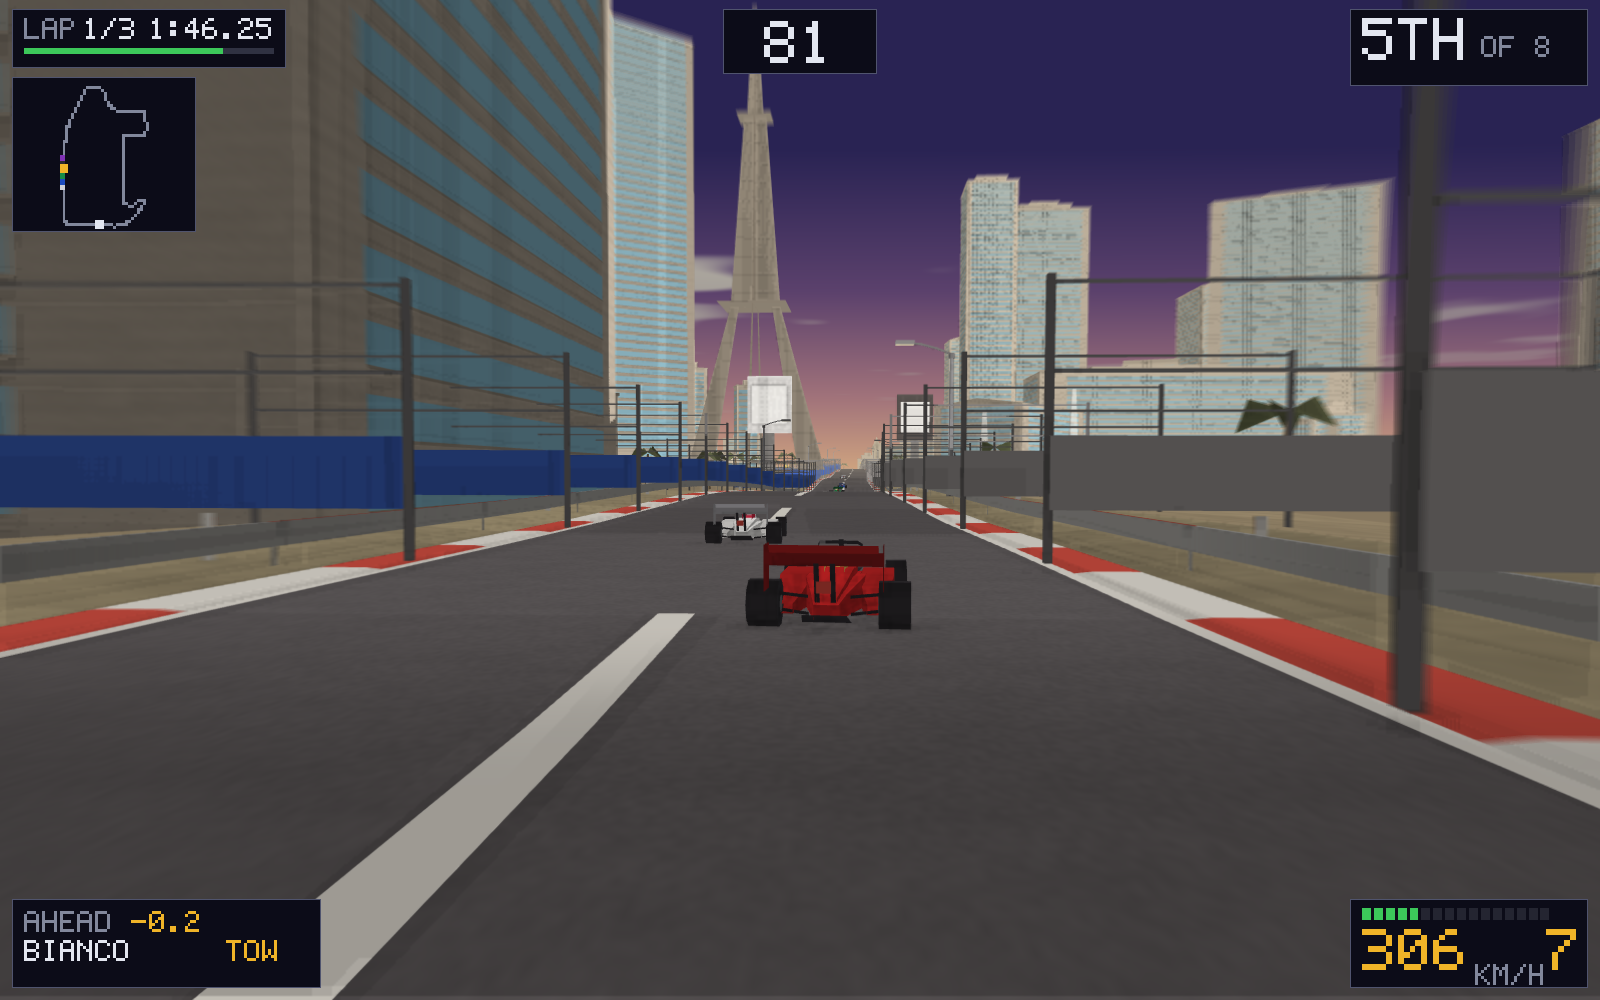
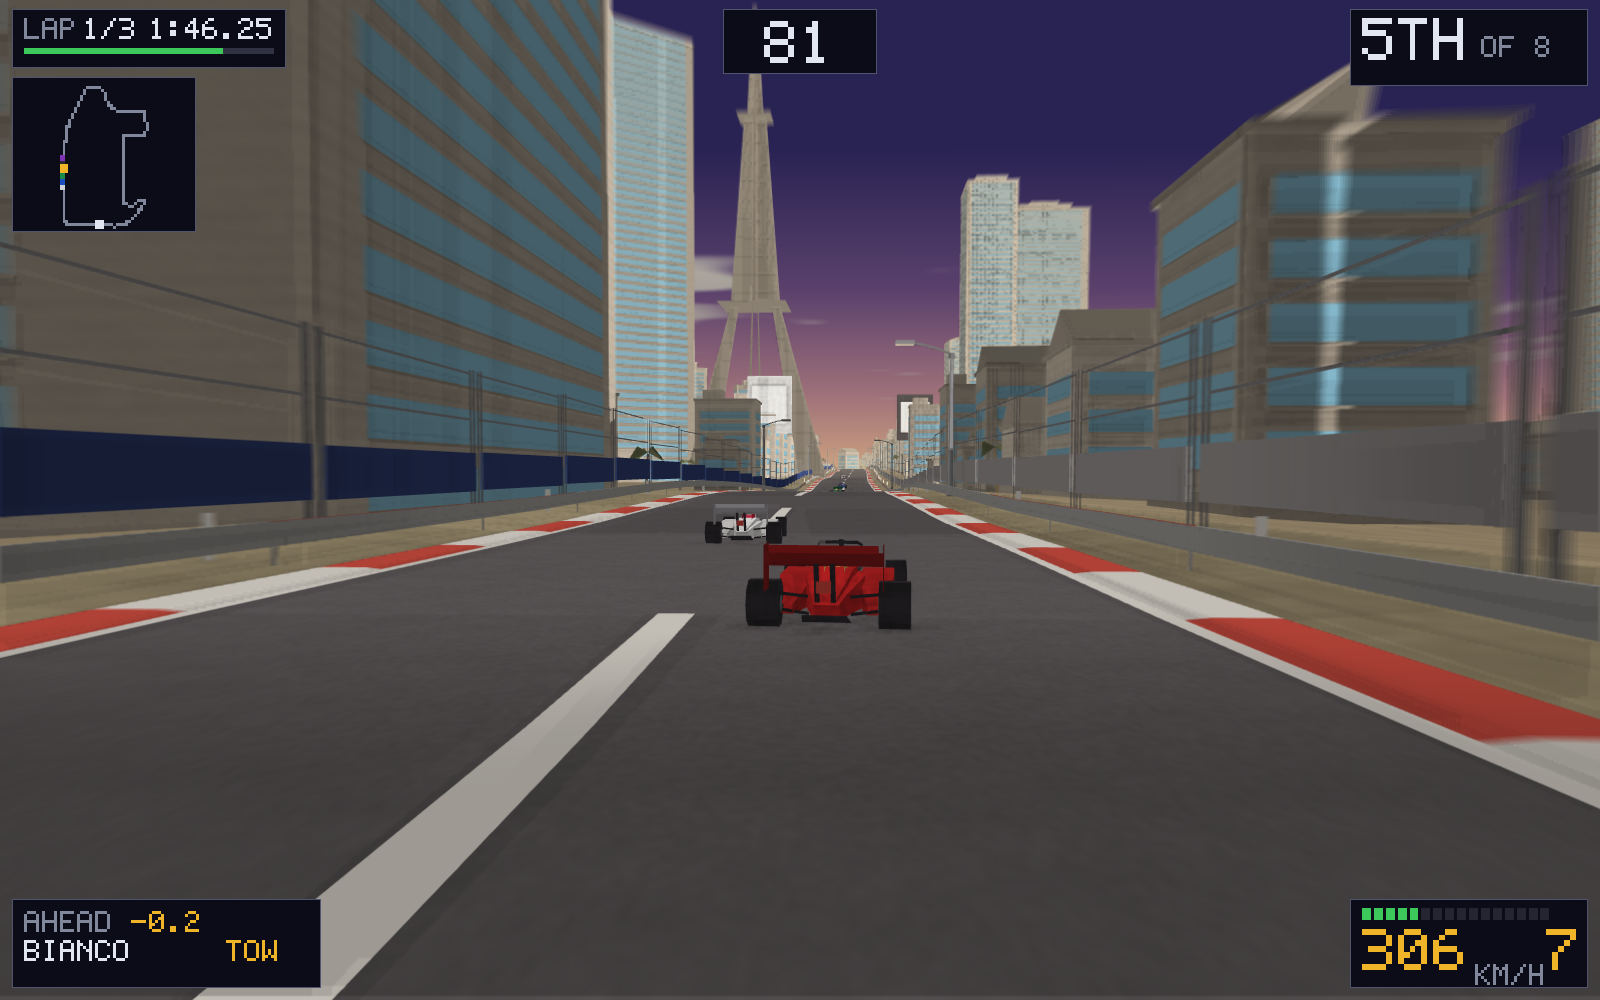
Six thousand runs of hoarding, all of them at right angles to the circuit
Reported from the car and obvious once seen: the advertising boarding stood
across the track like a row of gates.

A model in this game is placed with the track's heading, and at that heading
local x runs across the road and local z runs along it - which is why the
grandstand, built long in x, is handed a quarter turn when it is placed, and why
the crane's boom is described as reaching to the track's left. The hoarding was
built long in x and handed no turn. Built along z it needs none, which is the
better fix of the two: a model that has to be rotated to be used is a model that
will be placed unrotated eventually.

And the gaps behind it are filled. The eight street circuits take their buildings
from OpenStreetMap, which is the reason they are worth importing this way at all -
Monaco with invented buildings is a road between boxes - but a map has gaps: a
car park, a square, a stretch the survey did not cover. At those the new hoarding
stood against the sky with nothing behind it, which is worse than the bare ground
it replaced.

So the lap is walked and, wherever there is no measured building within reach, a
generic one goes behind the boarding. Same `tower` the map uses, so the same
building code and the same three silhouettes, at a size and height from a hash.
Two thousand of them, and it will not build where the ground stops - which is
where another part of the lap is, by the limit worked out for the ground itself -
nor over water.
[…]

Changed region(s): [[0.0, 0.062, 1.0, 0.713], [0.9688, 0.186, 1.0, 0.217]]

diff --git a/src/game/route.js b/src/game/route.js
@@ -1182,6 +1182,83 @@ function cornersOf(nodes) {
  * not on a bridge, where the railing is the barrier; and not where the barrier
  * itself has been dropped because the lap is running over its own tarmac.
  */
+/**
+ * A building where the map has none.
+ *
+ * The eight street circuits get their buildings from OpenStreetMap, which is the
+ * reason they are worth importing this way at all: Monaco with invented
+ * buildings is a road between boxes. But a map has gaps - a car park, a square,
+ * a stretch the survey did not cover - and at those the new hoarding stands
+ * against the sky with nothing behind it, which is worse than the bare ground it
+ * replaced.
+ *
+ * So this walks the lap and, wherever there is no measured building within
+ * reach, puts a generic one behind the boarding. It is the same `tower` the map
+ * uses, at a size and height from a hash, so it is the same building code and
+ * the same three silhouettes.
+ *
+ * Three things it will not do. It will not build where the ground stops, which
+ * is where another part of the lap is - the limit worked out by
+ * narrowWhereItFoldsBack. It will not build over water. And it does not need to
+ * check the road, because `add` does that for everything.
+ */
+function infill(nodes, out, add) {
+  const count = nodes.length;
+
+  // Where the measured buildings already are, in the world.
+  const built = [];
+  for (let j = 0; j < count; j++) {
+    const list = out[j];
+    if (!list) continue;
+    for (const p of list) {
+      if (p.kind !== 'tower' && p.kind !== 'block') continue;
+      const off = p.side * p.off;
+      built.push({
+        x: nodes[j].x + nodes[j].nx * off,
+        z: nodes[j].z + nodes[j].nz * off,
+        r: spreadOf(p),
+      });
+    }
+  }
+
+  // Every thirty metres. Closer than that and a gap the width of one building
+  // gets two of them; further and a square comes out as a square.
+  for (let i = 0; i < count; i += 5) {
+    const a = nodes[i];
+    if (a.open || a.bridge !== undefined || a.deck || (a.tunnel || 0) > 0.05) continue;
+    for (const side of [-1, 1]) {
+      const g = side < 0 ? a.g.l : a.g.r;
+      if (a.g.wet > 0.4 && g[1] < a.y - 2) continue;
+      // A size of its own, from the same hash the models use.
+      const seed = Math.abs(Math.sin(i * 12.9898 + side * 78.233) * 43758.5453) % 1;
+      const w = 9 + seed * 12;
+      const d = 9 + ((seed * 7) % 1) * 8;
+      const h = 7 + ((seed * 13) % 1) * 21;
+      const off = a.wall + 12 + w * 0.5;
+      // Not past where the ground stops: that is another part of the circuit.
+      const reach = (side < 0 ? a.groundL : a.groundR) ?? 1e9;
+      if (off + Math.max(w, d) * 0.5 > reach) continue;
+      // And not where the map already has one.
+      const x = a.x + a.nx * side * off;
+      const z = a.z + a.nz * side * off;
+      let taken = false;
+      for (const b of built) {
+        const dx = x - b.x;
+        const dz = z - b.z;
+        if (dx * dx + dz * dz < (b.r + Math.max(w, d) * 0.5 + 6) ** 2) {
+          taken = true;
+          break;
+        }
+      }
+      if (taken) continue;
+      add(i, {
+        kind: 'tower', side, off, s: 1, r: 0, align: true, fixed: true, w, d, h,
+      });
+      built.push({ x, z, r: Math.max(w, d) * 0.5 });
+    }
+  }
+}
+
 function streetFurniture(nodes, add) {
   const count = nodes.length;
   for (let i = 0; i < count; i += 2) {
@@ -2058,7 +2135,12 @@ function dress(nodes, real, rnd) {
   cornerBoards(nodes, add);
   cranes(nodes, add);
   crowds(nodes, add);
-  if (real.osm) streetFurniture(nodes, add);
+  if (real.osm) {
+    // The infill first, so the hoarding can be dropped where a building of its
+    // own turned out to fit and the boarding would be inside it.
+    infill(nodes, out, add);
+    streetFurniture(nodes, add);
+  }
 
   // The gantry is the checkpoint, on the node the clock actually reads.
   for (const at of checkpointsFor(count)) {

diff --git a/src/render/models.js b/src/render/models.js
@@ -1313,25 +1313,35 @@ export function drawProp(rt, prop, x, y, z, tint, theme, facing = 0, time = 0, n
       const board = TEAM_COLOURS[Math.floor(variant(prop) * TEAM_COLOURS.length)
         % TEAM_COLOURS.length];
       const post = tint(shade(C.metal, 0.7));
+      /**
+       * Built long along z, which is along the track.
+       *
+       * A model in this game is placed with the track's heading, and at that
+       * heading local x runs across the road and local z runs along it - which
+       * is why the grandstand, built long in x, is handed a quarter turn when it
+       * is placed. This was built long in x as well and not turned, so six
+       * thousand runs of advertising hoarding stood at right angles to the
+       * circuit like a row of gates. Built along z it needs no turn at all.
+       */
       const long = 5.6;
       // The boards, front and back, above the height of the barrier.
       put.face(rt, tint(board.body),
-        [-long, 1.15, 0, long, 1.15, 0, long, 2.75, 0, -long, 2.75, 0]);
+        [0, 1.15, -long, 0, 1.15, long, 0, 2.75, long, 0, 2.75, -long]);
       put.face(rt, tint(shade(board.wing, 0.9)),
-        [long, 1.15, 0.14, -long, 1.15, 0.14, -long, 2.75, 0.14, long, 2.75, 0.14]);
+        [0.14, 1.15, long, 0.14, 1.15, -long, 0.14, 2.75, -long, 0.14, 2.75, long]);
       put.face(rt, tint(shade(board.body, 0.8)),
-        [-long, 2.75, 0, long, 2.75, 0, long, 2.75, 0.14, -long, 2.75, 0.14]);
+        [0, 2.75, -long, 0, 2.75, long, 0.14, 2.75, long, 0.14, 2.75, -long]);
       // A post at each end, and the fence standing on them.
       for (const at of [-long, long]) {
-        put.face(rt, post, [at - 0.09, 0, -0.07, at + 0.09, 0, -0.07,
-          at + 0.09, 6.2, -0.07, at - 0.09, 6.2, -0.07]);
-        put.face(rt, post, [at + 0.09, 0, 0.07, at - 0.09, 0, 0.07,
-          at - 0.09, 6.2, 0.07, at + 0.09, 6.2, 0.07]);
+        put.face(rt, post, [-0.07, 0, at - 0.09, -0.07, 0, at + 0.09,
+          -0.07, 6.2, at + 0.09, -0.07, 6.2, at - 0.09]);
+        put.face(rt, post, [0.07, 0, at + 0.09, 0.07, 0, at - 0.09,
+          0.07, 6.2, at - 0.09, 0.07, 6.2, at + 0.09]);
       }
       const wire = tint(shade(C.metal, 0.85));
       for (const y of [4.1, 6.0]) {
-        put.face(rt, wire, [-long, y, -0.04, long, y, -0.04,
-          long, y + 0.09, -0.04, -long, y + 0.09, -0.04]);
+        put.face(rt, wire, [-0.04, y, -long, -0.04, y, long,
+          -0.04, y + 0.09, long, -0.04, y + 0.09, -long]);
       }
       break;
     }
